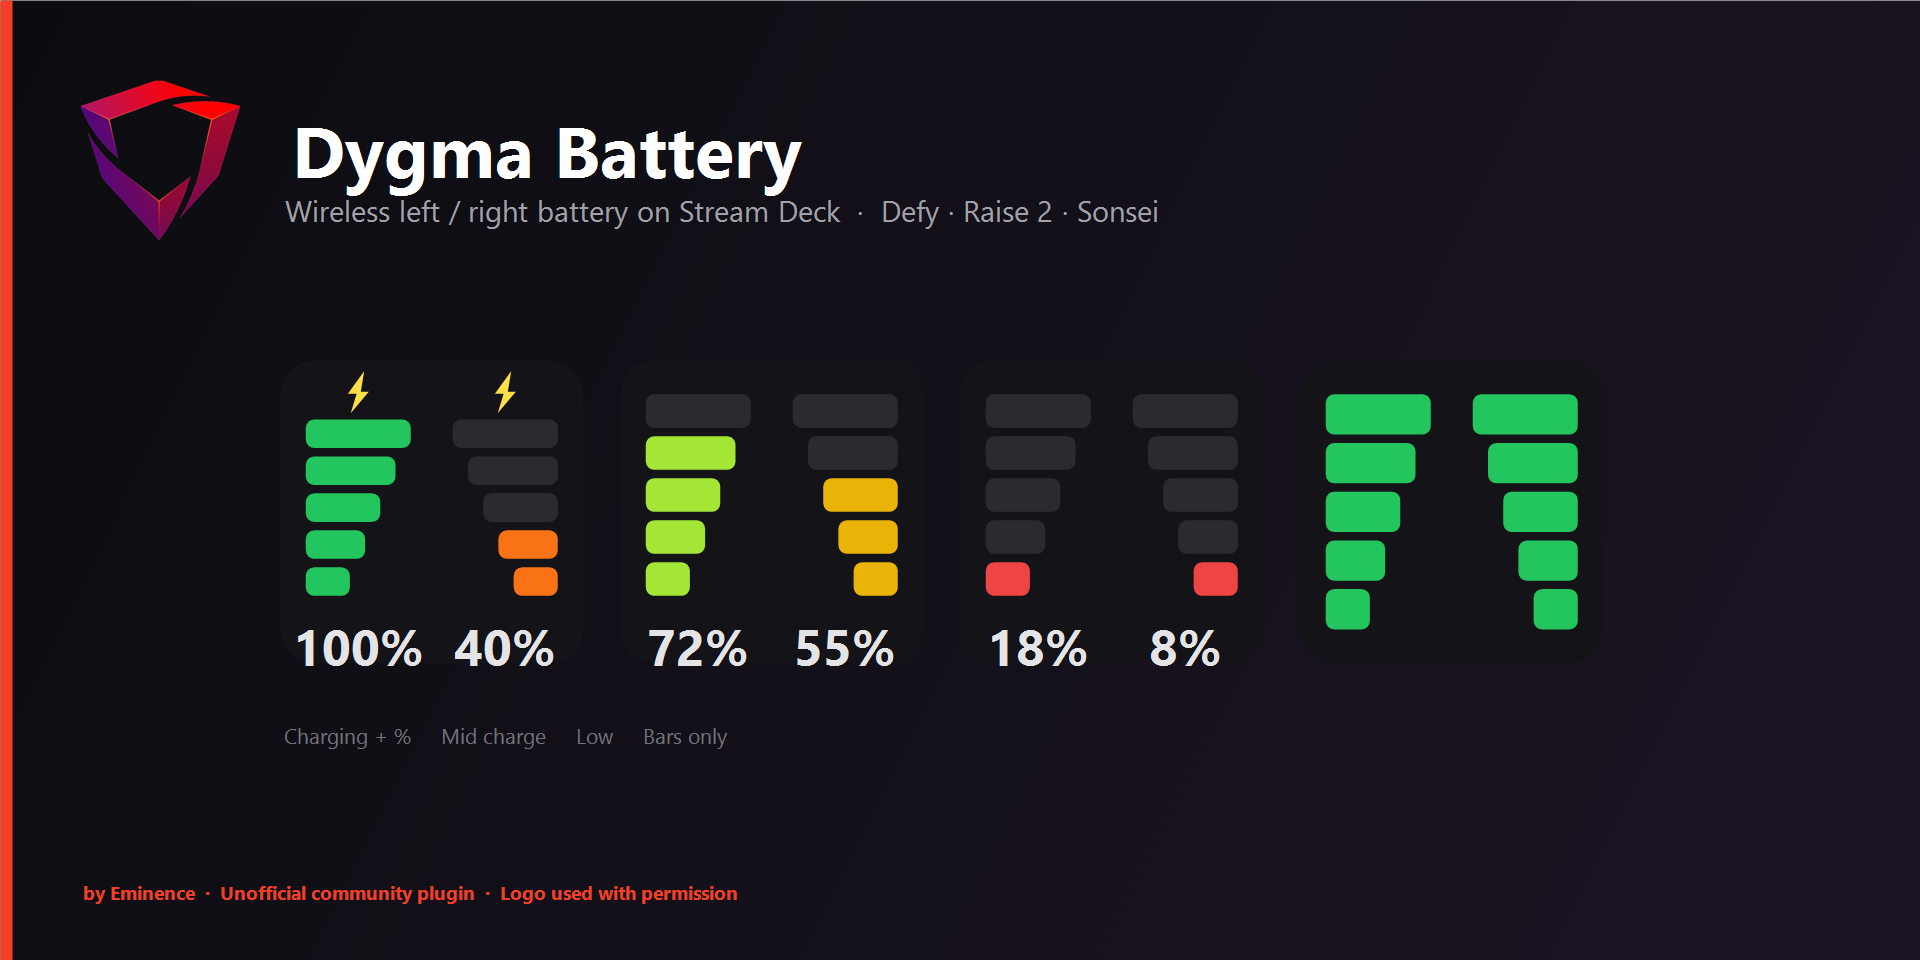
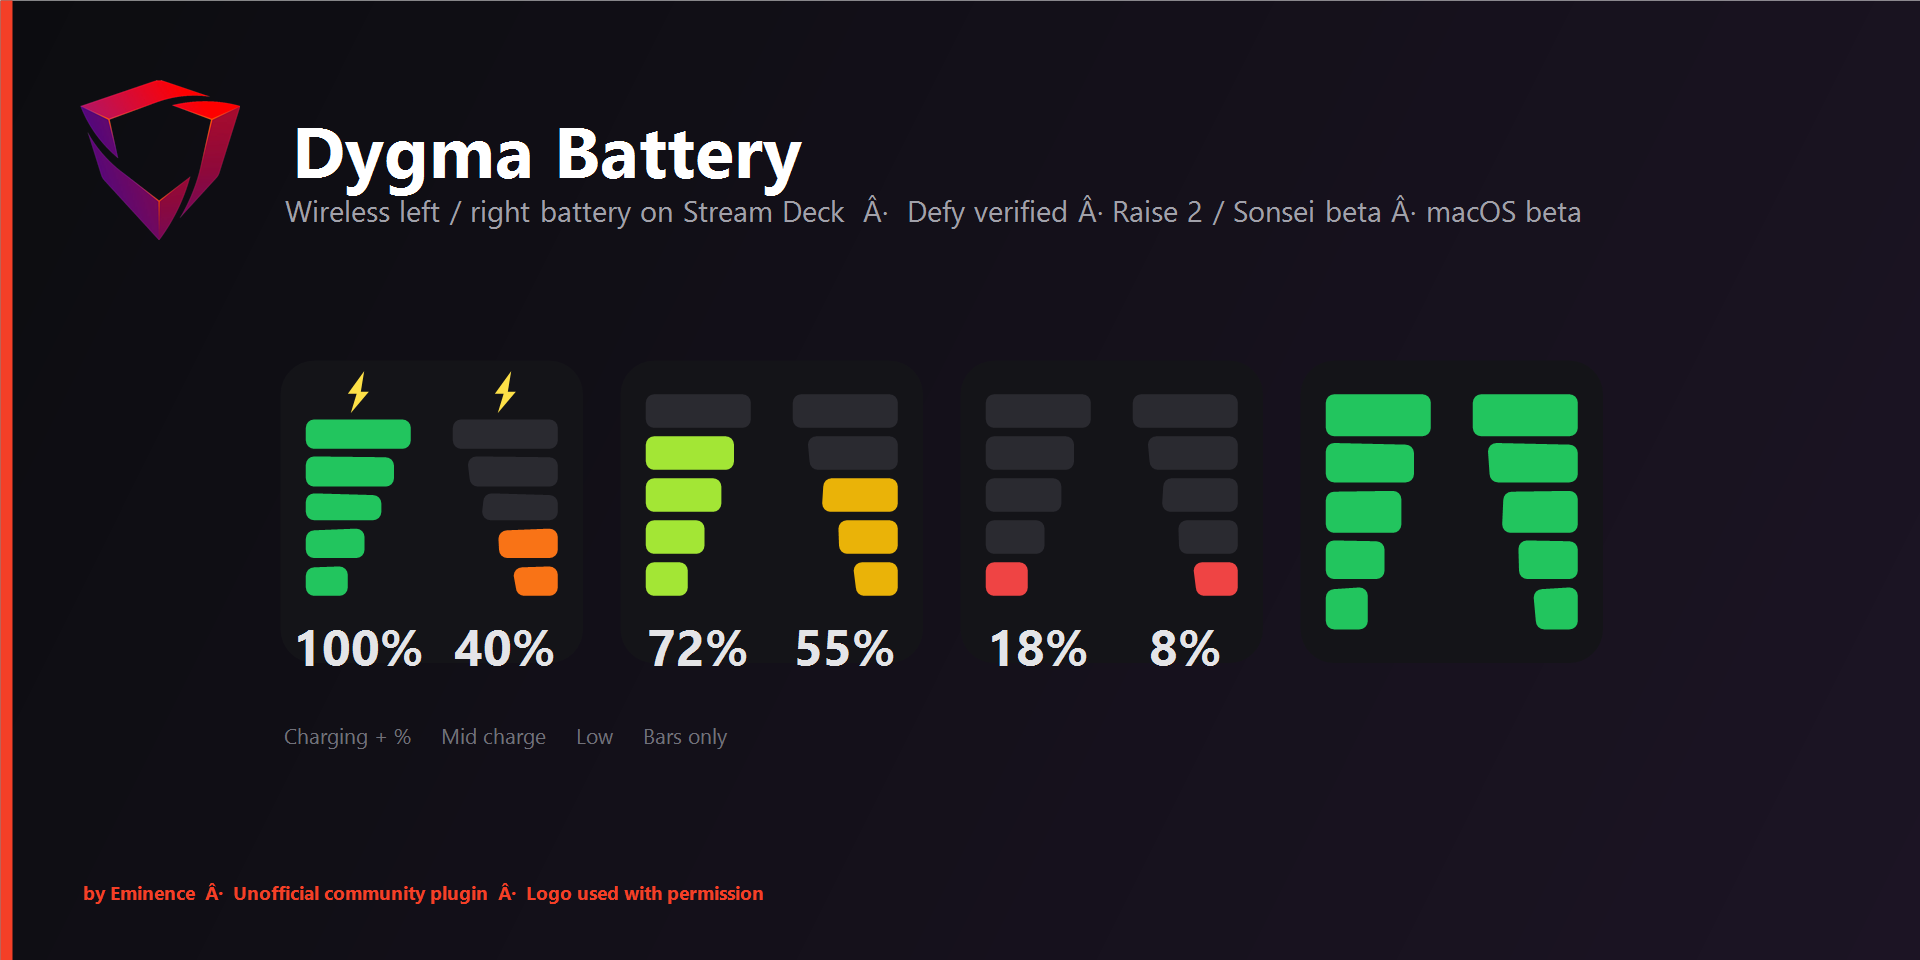
Release prep v1.4.0: beta labels for Raise 2, Sonsei, and macOS.
Mark Raise 2 / Sonsei wireless and macOS as beta in listing, manifest, README, and marketplace media. Ship Dygma Battery naming for Marketplace upload.

diff --git a/plugin/red.eminence.dygma.battery.sdPlugin/ui/property-inspector.html b/plugin/red.eminence.dygma.battery.sdPlugin/ui/property-inspector.html
@@ -57,7 +57,8 @@
 </head>
 <body>
   <p class="notice">
-    <strong>Unofficial plugin</strong> (Defy / Raise 2 / Sonsei wireless).
+    <strong>Unofficial plugin.</strong>
+    Defy verified; Raise 2 / Sonsei wireless and macOS are beta.
     Not an official Dygma product. Logo used with permission.
     No warranty — use at your own risk.
   </p>

diff --git a/marketplace/LISTING.md b/marketplace/LISTING.md
@@ -11,14 +11,14 @@ Copy/paste into [Maker Console](https://maker.elgato.com/). Update after each re
 | **Author / organization** | Eminence |
 | **Plugin UUID** | `red.eminence.dygma.battery` (must not change after publish) |
 | **Price** | Free |
-| **OS** | Windows 10+, macOS 10.15+ (plugin also ships a Linux binary for experiments; official Stream Deck app is Win/mac only) |
+| **OS** | Windows 10+ (primary); **macOS 10.15+ beta**; Linux binary experimental only (no official Stream Deck app) |
 | **Stream Deck** | 6.4+ |
 | **Category (in Stream Deck)** | Dygma Battery |
 | **Action** | Dygma Battery |
 
 ## Short description (first ~250 characters — SEO)
 
-Show left and right wireless battery levels from a Dygma Neuron on a Stream Deck key. Works with Defy, Raise 2, and Sonsei wireless when the Neuron is on USB and the halves are on RF. Close Bazecor while the plugin owns the serial port. Unofficial community plugin by Eminence; Dygma logo used with permission.
+Show left and right wireless battery levels from a Dygma Neuron on a Stream Deck key. Verified on Defy; Raise 2 and Sonsei wireless support is beta. Windows is the primary platform; macOS is beta. Neuron USB + RF sides required (not pure Bluetooth). Close Bazecor while the plugin owns the serial port. Unofficial community plugin by Eminence; Dygma logo used with permission.
 
 ## Full description (≤1500 characters)
 
@@ -26,9 +26,9 @@ Show left and right wireless battery levels from a Dygma Neuron on a Stream Deck
 
 **Compatible boards** (Focus `wireless.battery.*` over Neuron USB):
 
-- Dygma **Defy**
-- Dygma **Raise 2** (wireless)
-- Dygma **Sonsei** (wireless)
+- Dygma **Defy** — verified
+- Dygma **Raise 2** (wireless) — **beta**
+- Dygma **Sonsei** (wireless) — **beta**
 
 **Features**
 
@@ -44,7 +44,13 @@ Show left and right wireless battery levels from a Dygma Neuron on a Stream Deck
 - Neuron connected to the PC by **USB** (pure Bluetooth mode is not supported)
 - Keyboard halves linked to the Neuron over **RF** (not side USB cables for battery read)
 - **Bazecor closed** while this plugin uses the serial port
-- Stream Deck software **6.4+** on Windows or macOS
+- Stream Deck software **6.4+** (**Windows** primary; **macOS beta**)
+
+**Platform status**
+
+- **Windows** — primary, best tested
+- **macOS** — **beta**
+- **Raise 2 / Sonsei** wireless — **beta** (same Focus battery APIs as Defy; less field testing)
 
 **Notes**
 
@@ -96,7 +102,7 @@ Prefer the artifact from CI release `v*` after `streamdeck validate` / `pack` on
 - [ ] Listing name/description/media filled
 - [ ] Demo video attached
 - [ ] Upload latest `.streamDeckPlugin`
-- [ ] Confirm Windows + macOS support (accurate)
+- [ ] Confirm OS listing: Windows primary, macOS beta (accurate)
 - [ ] Support / source link: GitHub repo
 - [ ] Optional: uncheck “publish automatically” until you’ve smoke-tested the DRM-processed build
 - [ ] Submit for review (expect **4–10 business days**)

diff --git a/README.md b/README.md
@@ -6,7 +6,7 @@ Native **Stream Deck plugin** (Rust) that reads wireless battery levels from a D
   <img src="docs/preview.svg" alt="Stream Deck key previews: dual battery bars with charge colors, optional %, and charging bolts" width="720" />
 </p>
 
-Works with **wireless split** boards that expose Focus `wireless.battery.*` — **Defy**, **Raise 2**, and **Sonsei** (Neuron USB + RF sides). Pure Bluetooth mode is **not** supported (no Focus serial without Neuron USB).
+Works with **wireless split** boards that expose Focus `wireless.battery.*` (Neuron USB + RF sides). **Defy** is verified; **Raise 2** and **Sonsei** wireless support is **beta**. Pure Bluetooth mode is **not** supported (no Focus serial without Neuron USB).
 
 | Piece | Tech |
 |-------|------|
@@ -22,9 +22,9 @@ Works with **wireless split** boards that expose Focus `wireless.battery.*` — 
 
 | OS | Stream Deck host | Notes |
 |----|------------------|--------|
-| **Windows** | Official Elgato app 6.4+ | Primary target |
-| **macOS** | Official Elgato app 6.4+ | Binary `dygma-sd-plugin-mac` |
-| **Linux** | No official Elgato app | Binary for `--self-test` / community hosts; experimental |
+| **Windows** | Official Elgato app 6.4+ | Primary / verified |
+| **macOS** | Official Elgato app 6.4+ | **Beta** — binary `dygma-sd-plugin-mac` |
+| **Linux** | No official Elgato app | Experimental binary for `--self-test` / community hosts |
 
 Serial ports: Windows `COM4`, macOS `/dev/cu.usbmodem…`, Linux `/dev/ttyACM0` (add user to `dialout` or use udev).
 
@@ -32,7 +32,7 @@ Serial ports: Windows `COM4`, macOS `/dev/cu.usbmodem…`, Linux `/dev/ttyACM0` 
 
 | Item | Notes |
 |------|--------|
-| Neuron USB | Focus serial (e.g. VID `35EF` on Defy / Raise 2 / Sonsei wireless) |
+| Neuron USB | Focus serial (e.g. VID `35EF`; Defy verified, Raise 2 / Sonsei beta) |
 | Sides | RF to Neuron (not side USB cables) |
 | Bazecor | **Closed** while the plugin owns the serial port |
 | Stream Deck | 6.4+ on Windows/macOS |
